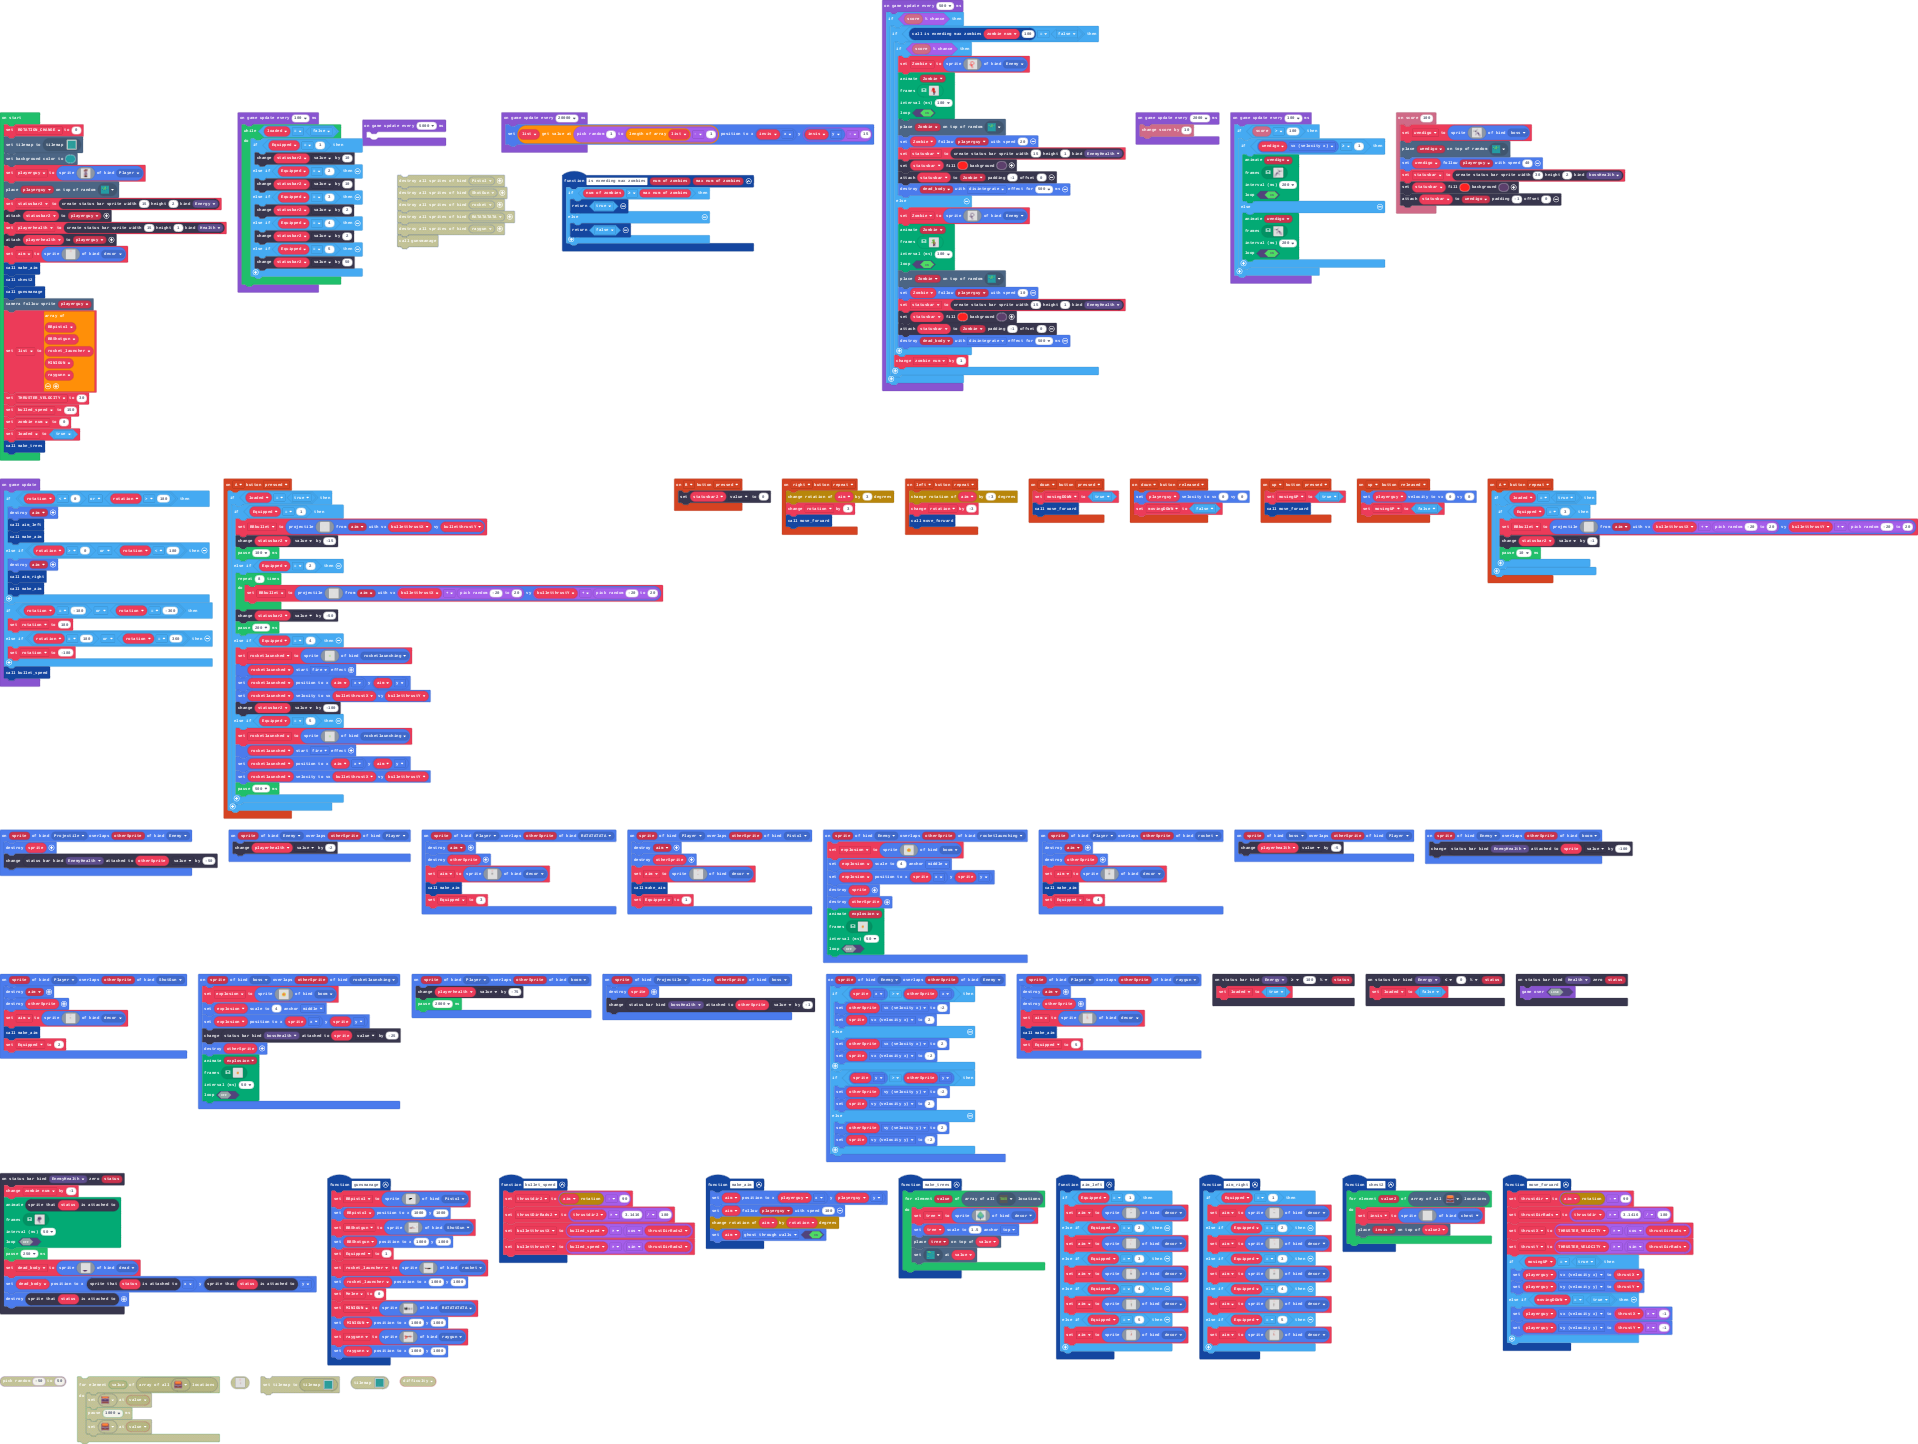
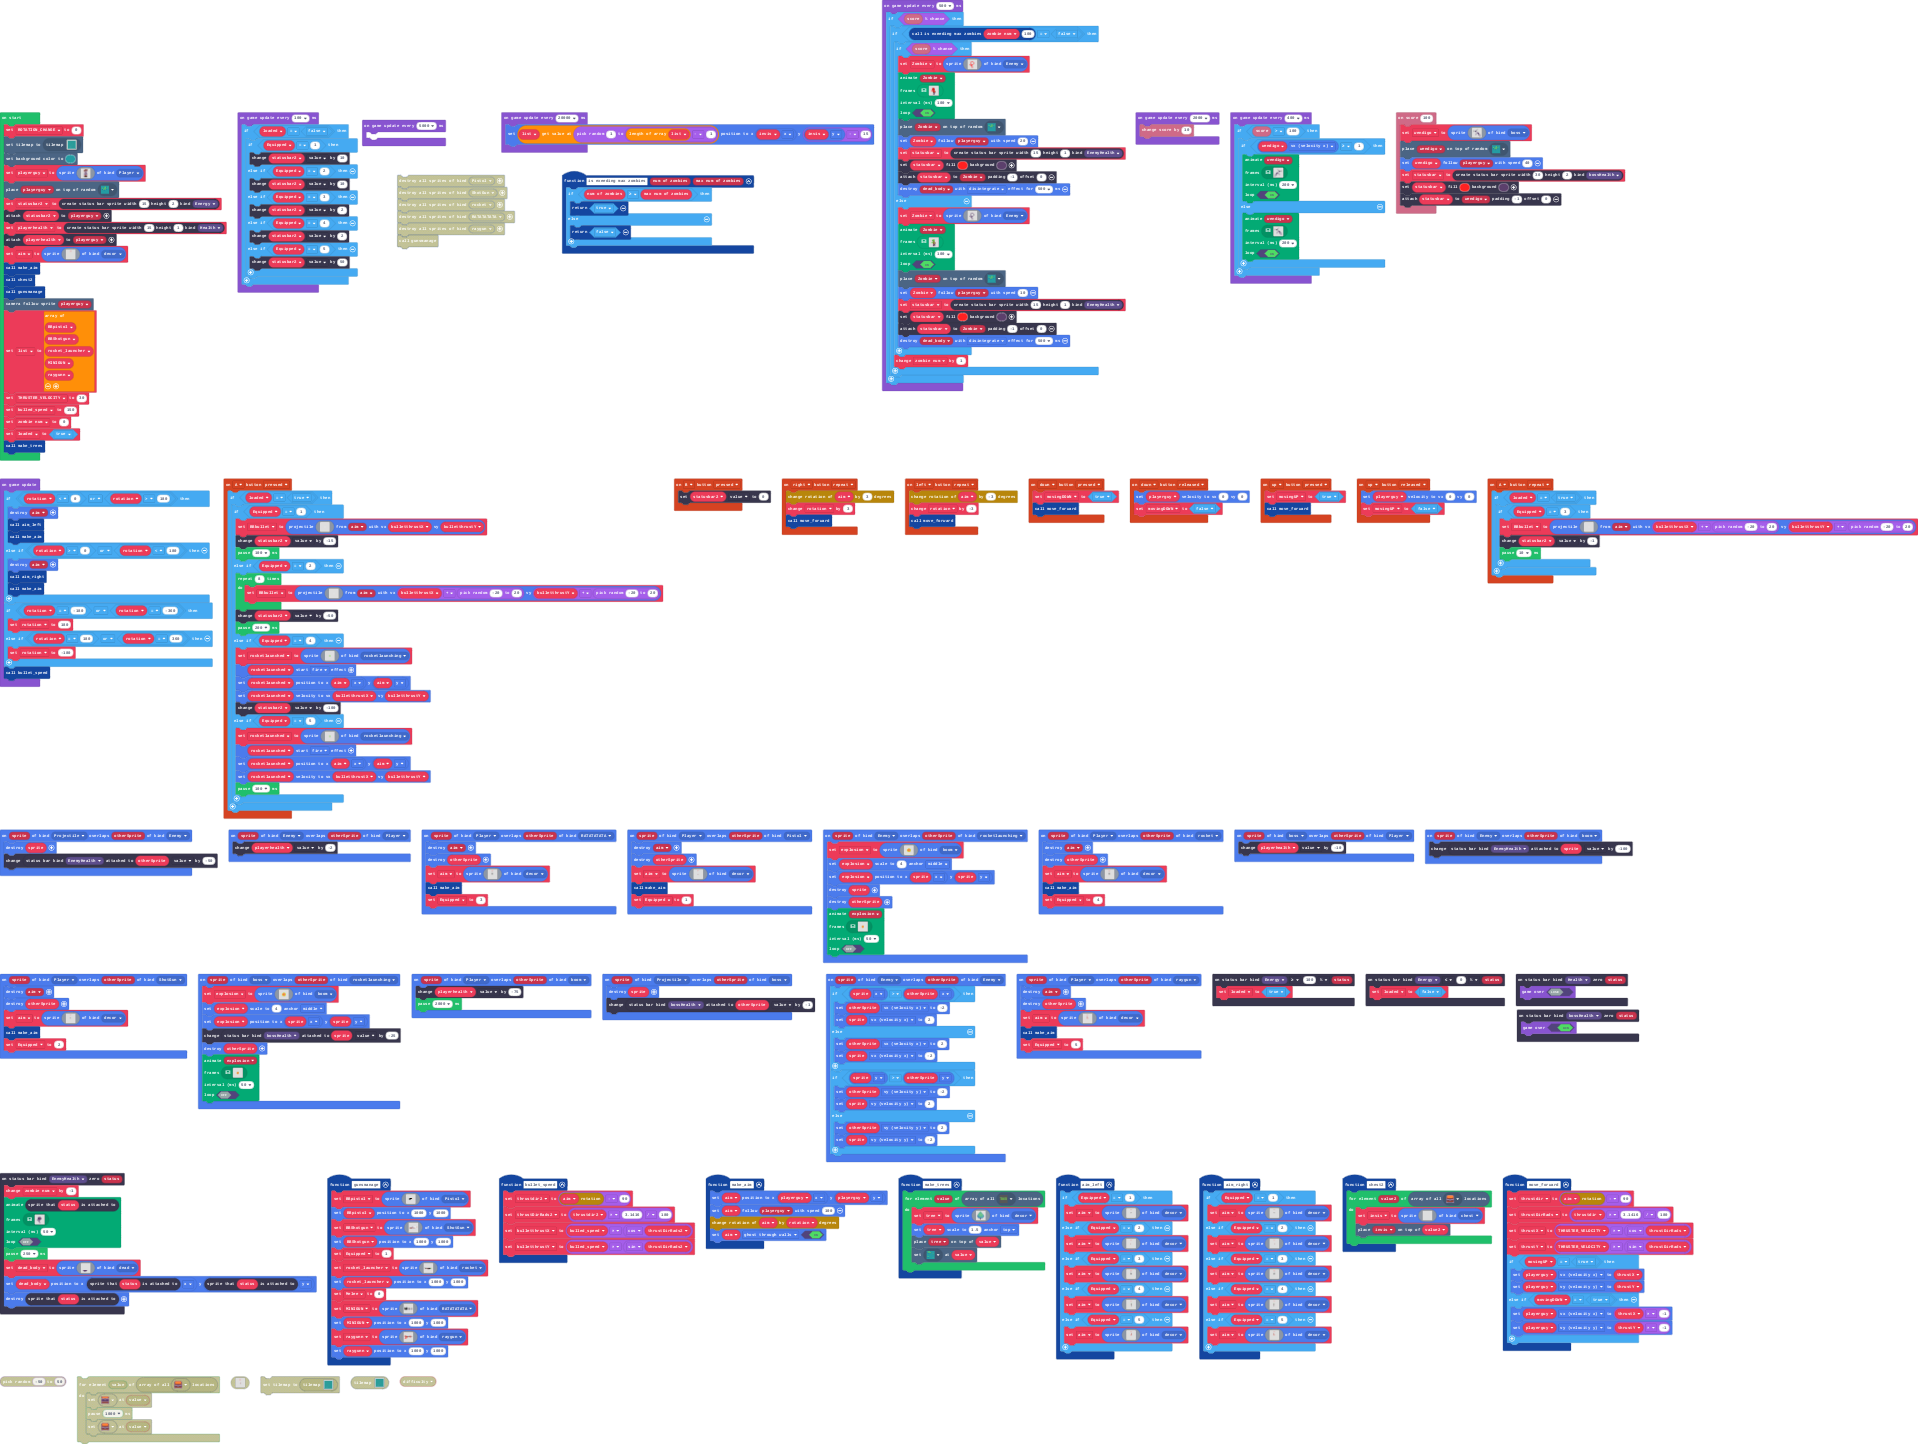
Update main.blocks, main.ts

diff --git a/main.ts b/main.ts
@@ -151,6 +151,9 @@ sprites.onOverlap(SpriteKind.Player, SpriteKind.ShotGun, function (sprite, other
     make_aim()
     Equipped = 2
 })
+statusbars.onZero(StatusBarKind.bossHealth, function (status) {
+    game.gameOver(true)
+})
 controller.A.onEvent(ControllerButtonEvent.Pressed, function () {
     if (loaded == true) {
         if (Equipped == 1) {
@@ -236,7 +239,7 @@ controller.A.onEvent(ControllerButtonEvent.Pressed, function () {
             rocketlaunched.startEffect(effects.fire)
             rocketlaunched.setPosition(aim.x, aim.y)
             rocketlaunched.setVelocity(bulletthrustX, bulletthrustY)
-            pause(500)
+            pause(100)
         }
     }
 })
@@ -547,7 +550,7 @@ sprites.onOverlap(SpriteKind.Enemy, SpriteKind.Enemy, function (sprite, otherSpr
     }
 })
 sprites.onOverlap(SpriteKind.boss, SpriteKind.Player, function (sprite, otherSprite) {
-    playerhealth.value += -5
+    playerhealth.value += -10
 })
 function aim_left () {
     if (Equipped == 1) {
@@ -2286,6 +2289,157 @@ game.onUpdateInterval(5000, function () {
 game.onUpdateInterval(2000, function () {
     info.changeScoreBy(10)
 })
+game.onUpdateInterval(400, function () {
+    if (info.score() > 100) {
+        if (wendigo.vx >= 1) {
+            animation.runImageAnimation(
+            wendigo,
+            [img`
+                ................................
+                ...............d................
+                .............dd.................
+                ...........d.d...d..............
+                ............d...d..dd...........
+                .............ddd...d............
+                ................d.dd.....d..d...
+                ................dd.......d..d..d
+                .................ddccc..d..dd.d.
+                ..................ccfcccdd.d..d.
+                ..................ccccfc.ddd..d.
+                ...................ccccc....ddd.
+                ..................c..cc........d
+                .................c..............
+                .............cccc...............
+                ..........ccccc.................
+                .........ccccc..................
+                ........ccccccccc...............
+                .......cccccc....cc.............
+                .......cccccccc....cc...........
+                ......cccccc...cc....c..........
+                ......ccccc......c....c.........
+                .......ccc........c..cc.........
+                ..ccc..c.c.........c............
+                ..c..cc..c..........c...........
+                ..c.....cc.........cc...........
+                ..c..cc.c.......................
+                ..c..c.cc.......................
+                ..c..c..........................
+                ..c...c.........................
+                ...c..c.........................
+                ...c...c........................
+                `,img`
+                ................................
+                ...............d................
+                .............dd.................
+                ...........d.d...d..............
+                ............d...d..dd...........
+                .............ddd...d............
+                ................d.dd.....d..d...
+                ................dd.......d..d..d
+                .................ddccc..d..dd.d.
+                ..................ccfcccdd.d..d.
+                ..................ccccfc.ddd..d.
+                ...................ccccc....ddd.
+                ..................c..cc........d
+                .................c..............
+                .............cccc...............
+                ..........ccccc....ccccc........
+                .........ccccc..ccc....c........
+                ........cccccccc................
+                .......cccccc....cc.............
+                .......cccccccccc..ccc..........
+                ......cccccc..........cc........
+                ......ccccc............c........
+                .......ccc......................
+                ..ccc..c.c......................
+                ..c..cc..c......................
+                .c......cc......................
+                .c......c.......................
+                c.......c.......................
+                c.......c.......................
+                c........c......................
+                c.........c.....................
+                c..........c....................
+                `],
+            200,
+            true
+            )
+        } else {
+            animation.runImageAnimation(
+            wendigo,
+            [img`
+                ................................
+                ................d...............
+                .................dd.............
+                ..............d...d.d...........
+                ...........dd..d...d............
+                ............d...ddd.............
+                ...d..d.....dd.d................
+                d..d..d.......dd................
+                .d.dd..d..cccdd.................
+                .d..d.ddcccfcc..................
+                .d..ddd.cfcccc..................
+                .ddd....ccccc...................
+                d........cc..c..................
+                ..............c.................
+                ...............cccc.............
+                .................ccccc..........
+                ..................ccccc.........
+                ...............ccccccccc........
+                .............cc....cccccc.......
+                ...........cc....cccccccc.......
+                ..........c....cc...cccccc......
+                .........c....c......ccccc......
+                .........cc..c........ccc.......
+                ............c.........c.c..ccc..
+                ...........c..........c..cc..c..
+                ...........cc.........cc.....c..
+                .......................c.cc..c..
+                .......................cc.c..c..
+                ..........................c..c..
+                .........................c...c..
+                .........................c..c...
+                ........................c...c...
+                `,img`
+                ................................
+                ................d...............
+                .................dd.............
+                ..............d...d.d...........
+                ...........dd..d...d............
+                ............d...ddd.............
+                ...d..d.....dd.d................
+                d..d..d.......dd................
+                .d.dd..d..cccdd.................
+                .d..d.ddcccfcc..................
+                .d..ddd.cfcccc..................
+                .ddd....ccccc...................
+                d........cc..c..................
+                ..............c.................
+                ...............cccc.............
+                ........ccccc....ccccc..........
+                ........c....ccc..ccccc.........
+                ................cccccccc........
+                .............cc....cccccc.......
+                ..........ccc..cccccccccc.......
+                ........cc..........cccccc......
+                ........c............ccccc......
+                ......................ccc.......
+                ......................c.c..ccc..
+                ......................c..cc..c..
+                ......................cc......c.
+                .......................c......c.
+                .......................c.......c
+                .......................c.......c
+                ......................c........c
+                .....................c.........c
+                ....................c..........c
+                `],
+            200,
+            true
+            )
+        }
+    }
+})
 game.onUpdateInterval(500, function () {
     if (Math.percentChance(info.score())) {
         if (is_exeeding_max_zombies(zombie_num, 100) == false) {
@@ -2476,7 +2630,7 @@ game.onUpdateInterval(500, function () {
     }
 })
 game.onUpdateInterval(100, function () {
-    while (loaded == false) {
+    if (loaded == false) {
         if (Equipped == 1) {
             statusbar2.value += 10
         } else if (Equipped == 2) {
@@ -2487,157 +2641,6 @@ game.onUpdateInterval(100, function () {
             statusbar2.value += 2
         } else if (Equipped == 5) {
             statusbar2.value += 50
-        }
-    }
-})
-game.onUpdateInterval(100, function () {
-    if (info.score() > 100) {
-        if (wendigo.vx >= 1) {
-            animation.runImageAnimation(
-            wendigo,
-            [img`
-                ................................
-                ...............d................
-                .............dd.................
-                ...........d.d...d..............
-                ............d...d..dd...........
-                .............ddd...d............
-                ................d.dd.....d..d...
-                ................dd.......d..d..d
-                .................ddccc..d..dd.d.
-                ..................ccfcccdd.d..d.
-                ..................ccccfc.ddd..d.
-                ...................ccccc....ddd.
-                ..................c..cc........d
-                .................c..............
-                .............cccc...............
-                ..........ccccc.................
-                .........ccccc..................
-                ........ccccccccc...............
-                .......cccccc....cc.............
-                .......cccccccc....cc...........
-                ......cccccc...cc....c..........
-                ......ccccc......c....c.........
-                .......ccc........c..cc.........
-                ..ccc..c.c.........c............
-                ..c..cc..c..........c...........
-                ..c.....cc.........cc...........
-                ..c..cc.c.......................
-                ..c..c.cc.......................
-                ..c..c..........................
-                ..c...c.........................
-                ...c..c.........................
-                ...c...c........................
-                `,img`
-                ................................
-                ...............d................
-                .............dd.................
-                ...........d.d...d..............
-                ............d...d..dd...........
-                .............ddd...d............
-                ................d.dd.....d..d...
-                ................dd.......d..d..d
-                .................ddccc..d..dd.d.
-                ..................ccfcccdd.d..d.
-                ..................ccccfc.ddd..d.
-                ...................ccccc....ddd.
-                ..................c..cc........d
-                .................c..............
-                .............cccc...............
-                ..........ccccc....ccccc........
-                .........ccccc..ccc....c........
-                ........cccccccc................
-                .......cccccc....cc.............
-                .......cccccccccc..ccc..........
-                ......cccccc..........cc........
-                ......ccccc............c........
-                .......ccc......................
-                ..ccc..c.c......................
-                ..c..cc..c......................
-                .c......cc......................
-                .c......c.......................
-                c.......c.......................
-                c.......c.......................
-                c........c......................
-                c.........c.....................
-                c..........c....................
-                `],
-            200,
-            true
-            )
-        } else {
-            animation.runImageAnimation(
-            wendigo,
-            [img`
-                ................................
-                ................d...............
-                .................dd.............
-                ..............d...d.d...........
-                ...........dd..d...d............
-                ............d...ddd.............
-                ...d..d.....dd.d................
-                d..d..d.......dd................
-                .d.dd..d..cccdd.................
-                .d..d.ddcccfcc..................
-                .d..ddd.cfcccc..................
-                .ddd....ccccc...................
-                d........cc..c..................
-                ..............c.................
-                ...............cccc.............
-                .................ccccc..........
-                ..................ccccc.........
-                ...............ccccccccc........
-                .............cc....cccccc.......
-                ...........cc....cccccccc.......
-                ..........c....cc...cccccc......
-                .........c....c......ccccc......
-                .........cc..c........ccc.......
-                ............c.........c.c..ccc..
-                ...........c..........c..cc..c..
-                ...........cc.........cc.....c..
-                .......................c.cc..c..
-                .......................cc.c..c..
-                ..........................c..c..
-                .........................c...c..
-                .........................c..c...
-                ........................c...c...
-                `,img`
-                ................................
-                ................d...............
-                .................dd.............
-                ..............d...d.d...........
-                ...........dd..d...d............
-                ............d...ddd.............
-                ...d..d.....dd.d................
-                d..d..d.......dd................
-                .d.dd..d..cccdd.................
-                .d..d.ddcccfcc..................
-                .d..ddd.cfcccc..................
-                .ddd....ccccc...................
-                d........cc..c..................
-                ..............c.................
-                ...............cccc.............
-                ........ccccc....ccccc..........
-                ........c....ccc..ccccc.........
-                ................cccccccc........
-                .............cc....cccccc.......
-                ..........ccc..cccccccccc.......
-                ........cc..........cccccc......
-                ........c............ccccc......
-                ......................ccc.......
-                ......................c.c..ccc..
-                ......................c..cc..c..
-                ......................cc......c.
-                .......................c......c.
-                .......................c.......c
-                .......................c.......c
-                ......................c........c
-                .....................c.........c
-                ....................c..........c
-                `],
-            200,
-            true
-            )
         }
     }
 })
